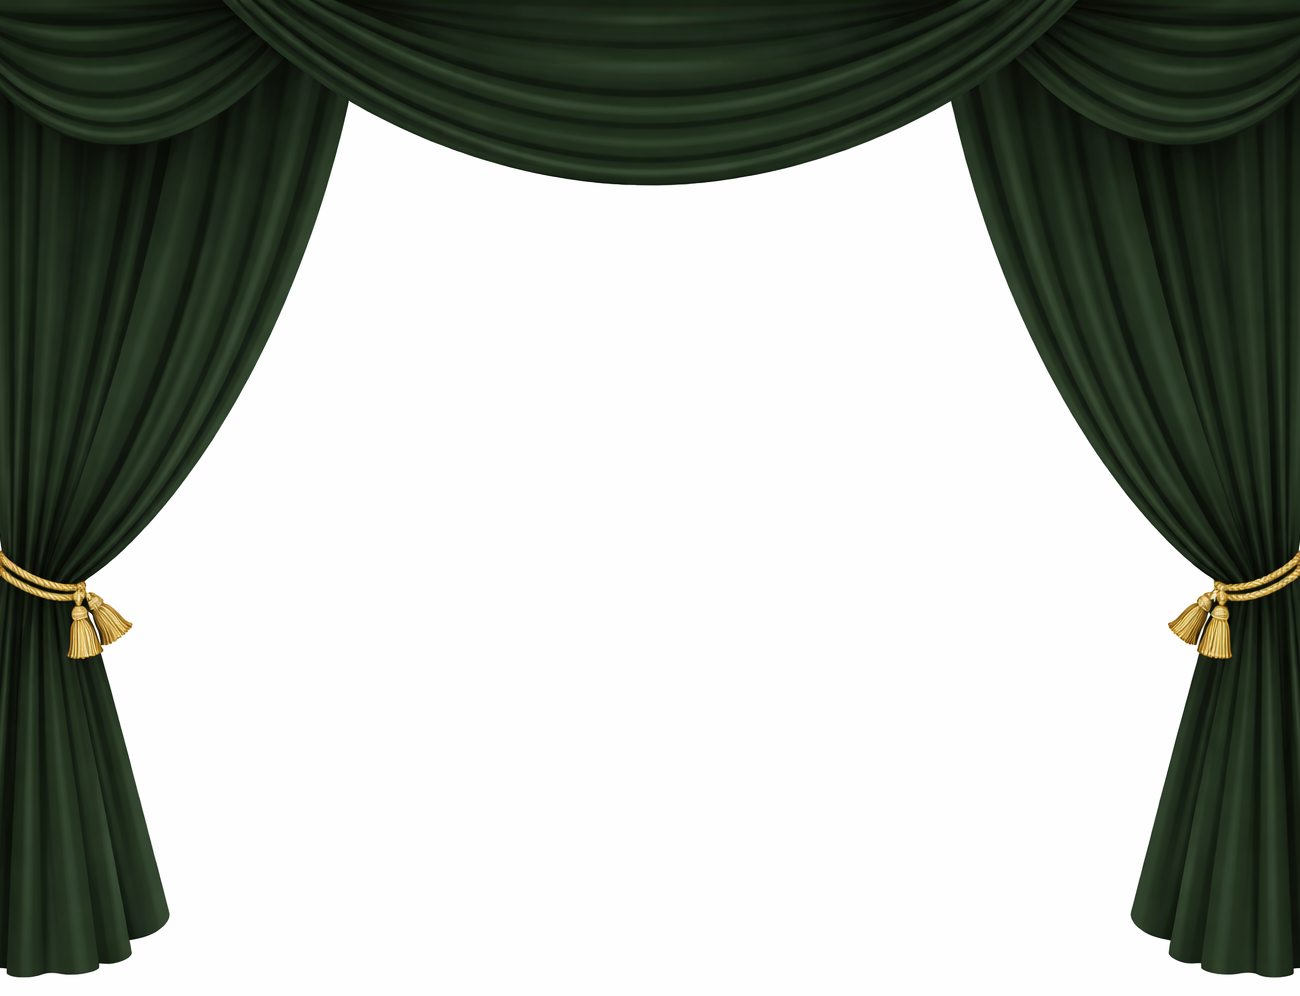
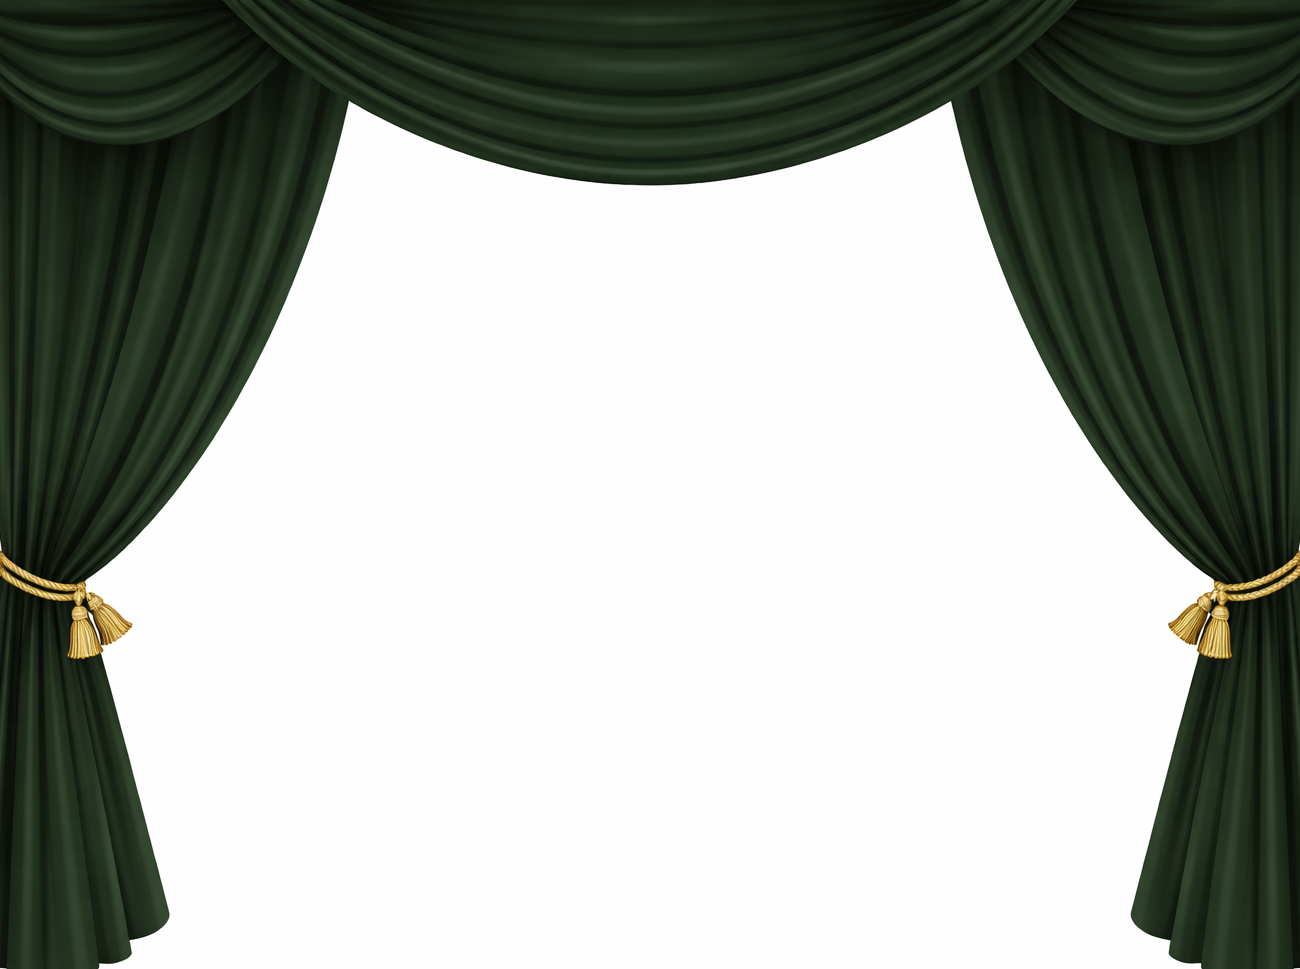
updates

diff --git a/src/components/CurtainHero.tsx b/src/components/CurtainHero.tsx
@@ -37,7 +37,7 @@ const CurtainHero = ({ onOpen }) => {
         <img
           src={curtainOpen}
           alt="Opened Curtain"
-          className="w-full h-full object-cover"
+          className="w-full h-full "
         />
         {/* Soft overlay to make text pop */}
         <div className="absolute inset-0 bg-black/10" />
